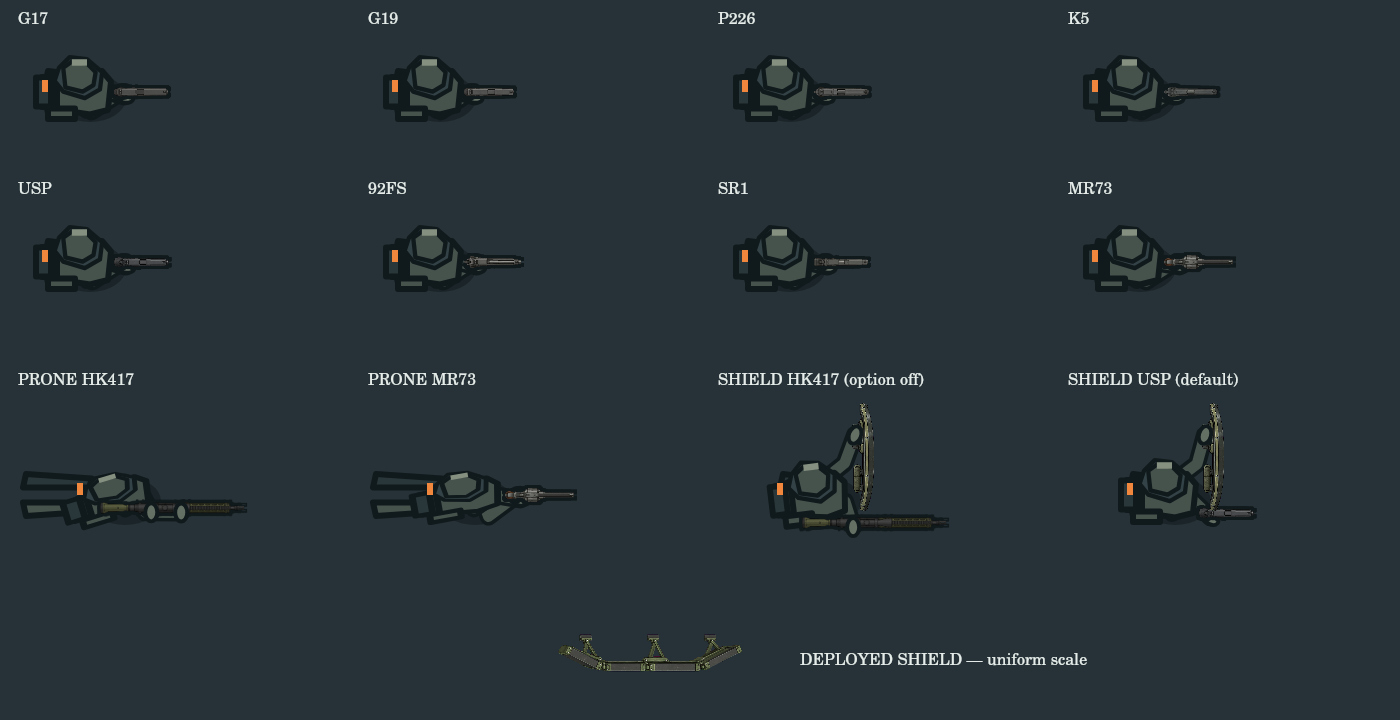
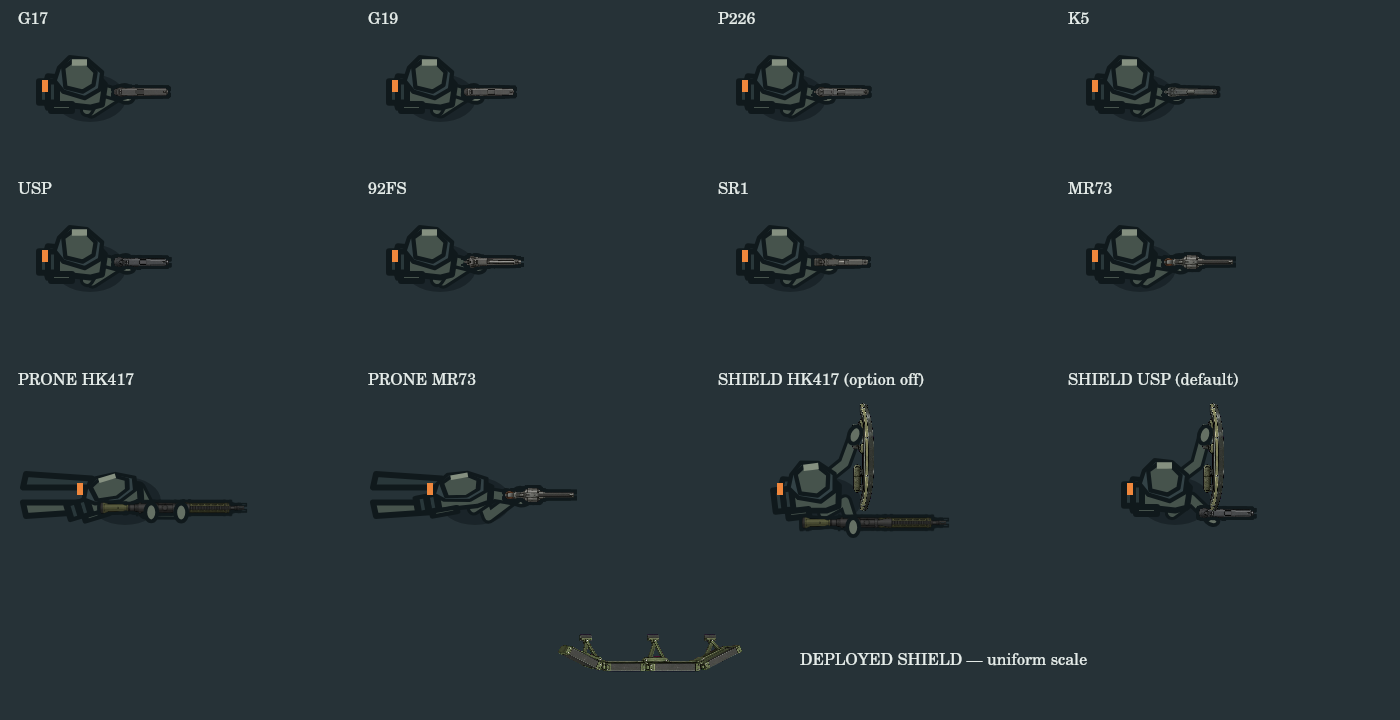
체형 피드백에 따라 몸통·군장과 팔 두께 축소

diff --git a/artifacts/draft-order-player-generator/src/components/modularOperator.ts b/artifacts/draft-order-player-generator/src/components/modularOperator.ts
@@ -185,9 +185,9 @@ export function throwArmPose(progress:number):{elbow:Point;hand:Point}{
 }
 
 function strokeArm(ctx:CanvasRenderingContext2D,pose:ArmPose,color:string):void {
-  ctx.lineCap='round';ctx.lineJoin='round';ctx.strokeStyle='#10191C';ctx.lineWidth=6;
+  ctx.lineCap='round';ctx.lineJoin='round';ctx.strokeStyle='#10191C';ctx.lineWidth=4.8;
   ctx.beginPath();ctx.moveTo(pose.shoulder.x,pose.shoulder.y);ctx.lineTo(pose.elbow.x,pose.elbow.y);ctx.lineTo(pose.hand.x,pose.hand.y);ctx.stroke();
-  ctx.strokeStyle=color;ctx.lineWidth=3.6;ctx.stroke();
+  ctx.strokeStyle=color;ctx.lineWidth=2.6;ctx.stroke();
 }
 function hand(ctx:CanvasRenderingContext2D,point:Point,angle:number):void {
   ctx.save();ctx.translate(point.x,point.y);ctx.rotate(angle);ctx.fillStyle='#657064';ctx.strokeStyle='#10191C';ctx.lineWidth=1.3;ctx.beginPath();ctx.ellipse(0,0,3,2,0,0,Math.PI*2);ctx.fill();ctx.stroke();ctx.restore();
@@ -203,7 +203,7 @@ function paintLowerBody(ctx:CanvasRenderingContext2D,pose:OperatorAssemblyPose,t
   // 회전 중에도 아래로 내려간 다리의 투영이 헬멧 뒤로 솟지 않게 몸 아래 가림 범위를 유지합니다.
   // 승인된 서기·앉기와 보행 진폭은 이 범위 안에 모두 들어갑니다. 포복은 별도입니다.
   if(!pose.prone){ctx.beginPath();ctx.rect(-17.5,-8.5,28,17);ctx.clip();}
-  ctx.rotate(relative);ctx.strokeStyle='#10191C';ctx.lineWidth=2;ctx.lineJoin='round';
+  ctx.rotate(relative);if(!pose.prone)ctx.scale(1,.78);ctx.strokeStyle='#10191C';ctx.lineWidth=2;ctx.lineJoin='round';
   // 서기/앉기에서는 다리가 골반 아래로 내려가므로 탑뷰에 짧게만 투영됩니다.
   // 포복의 뒤로 뻗은 다리를 서 있는 자세에 재사용하지 않습니다.
   for(const side of [-1,1]){const rear=pose.prone?-29:-10+3*crouch+side*step;
@@ -214,21 +214,22 @@ function paintLowerBody(ctx:CanvasRenderingContext2D,pose:OperatorAssemblyPose,t
 
 function paintTorso(ctx:CanvasRenderingContext2D,color:string):void {
   ctx.strokeStyle='#10191C';ctx.lineWidth=2;ctx.lineJoin='round';
-  polygon(ctx,[[-14,-5],[-6,-7.5],[4,-7],[7,-3.5],[6,6],[0,7.5],[-13,5.5],[-16,2]],color);
-  ctx.fillStyle='#29373A';ctx.fillRect(-16,-5,5,10);ctx.strokeRect(-16,-5,5,10);
+  // 사용자 체형 피드백: 흉곽 폭을 15→10.4로 줄이고 복부·허리를 안쪽으로 모읍니다.
+  polygon(ctx,[[-12,-3.6],[-6,-5.2],[3,-4.8],[5,-2.5],[4,4.2],[0,5.2],[-12,3.8],[-14,1.4]],color);
+  ctx.fillStyle='#29373A';ctx.fillRect(-14,-3.5,3,7);ctx.strokeRect(-14,-3.5,3,7);
 }
 
 function paintHeadAndKit(ctx:CanvasRenderingContext2D,color:string,pack:number,tool:string):void {
   ctx.strokeStyle='#10191C';ctx.lineWidth=2;ctx.lineJoin='round';
-  ctx.fillStyle='#29373A';ctx.fillRect(-18,-pack*.32,5,pack*.64);ctx.strokeRect(-18,-pack*.32,5,pack*.64);
+  ctx.fillStyle='#29373A';ctx.fillRect(-17,-pack*.24,3,pack*.48);ctx.strokeRect(-17,-pack*.24,3,pack*.48);
   ctx.save();ctx.translate(-1,-3);ctx.scale(.72,.72);
   polygon(ctx,[[-13,-7],[-8,-12],[0,-11],[7,-5],[6,3],[-1,7],[-11,4],[-15,-1]],'#334246');
   polygon(ctx,[[-11,-7],[-7,-10],[0,-9],[4,-5],[3,1],[-2,4],[-10,2]],color);
   ctx.fillStyle='#859080';ctx.fillRect(-7,-11,7,3);ctx.restore();
   if(tool==='battery'||tool==='interceptor'||tool==='charge'||tool==='plate'){
-    ctx.fillStyle=color;ctx.fillRect(-14,5.5,9,3.5);ctx.strokeRect(-14,5.5,9,3.5);
+    ctx.fillStyle=color;ctx.fillRect(-13,4,7,2.3);ctx.strokeRect(-13,4,7,2.3);
   } else if(tool==='coil'||tool==='roll'){
-    ctx.fillStyle='#859080';ctx.beginPath();ctx.arc(-10,6.5,2.2,0,Math.PI*2);ctx.fill();ctx.stroke();
+    ctx.fillStyle='#859080';ctx.beginPath();ctx.arc(-10,4.8,1.6,0,Math.PI*2);ctx.fill();ctx.stroke();
   }
 }
 

diff --git a/docs/PROJECT_STATE.md b/docs/PROJECT_STATE.md
@@ -1,3 +1,5 @@
+> **최신 체형 피드백:** 사용자의 몸통 비만감 지적에 따라 몸통 폭 약 31%, 군장 폭 25%와 팔 두께를 줄였다. 머리·총기·파지 유지. [전후 비교](../validation/operator-body-before-after.png). 새 체형 사용자 확인 전, 브라우저 미실행. 아래는 이전 기록이다.
+
 > **파지 피드백·방패 보조무장 옵션:** 권총 손을 원화 아래로, 방패 손목을 아래팔 방향으로 보완했다. REUSS 준비 옵션 `shieldRequiresSecondary`(기본 켜짐)과 실제 USP 전환·슬롯별 탄약 보존·교체 발사 차단을 연결했다. [인수인계와 검증](operator-equipment-current.md). 브라우저 미실행.
 
 > **보조무장·방패 후속 (2026-09-13):** [현재 원화·파지·검증](operator-equipment-current.md). 보조무장 8종과 휴대/설치 방패 2종을 상부 PNG로 연결했다. 의식 있는 포복 양손·총기와 방패 손잡이 파지 320자세 검사, 기존 주무기 승인 외형 24개 동일. 사용자 승인한 코드 배경 분리와 재사용 스킬 규칙을 반영했다. 브라우저 미실행. 새 아트 피드백·보조무장 전환 로직·방패 장전 전환은 별도다. 아래는 이전 기록이다.

diff --git a/docs/operator-equipment-current.md b/docs/operator-equipment-current.md
@@ -1,3 +1,5 @@
+> **체형 축소 후속:** 몸통 상하 폭 15→10.4(약 31% 축소), 등 군장 폭 25% 축소, 측면 장비·허리와 비포복 하체 투영을 축소했다. 팔 외곽선 6→4.8, 내부 3.6→2.6이며 관절 길이·접점은 유지한다. 머리·무기 등비와 성능/히트박스는 변경하지 않았다. 24개 승인 머리·총기·손 그리기 명령 동일, 2,560방향·100팔 접점·320장비 자세·타입 검사 통과. 사용자 요청으로 몸통이 변경되어 전체 픽셀 동일 검사는 보존 파츠 검사로 대체했으며 새 체형 승인으로 주장하지 않는다. [전후 검수표](../validation/operator-body-before-after.png).
+
 > **사용자 피드백 후속:** 권총 슬라이드 위 손, 방패 손목 꺾임, 보조무장 강제 옵션 누락을 수정했다. 아래 최초 제작 기록의 무기 선택 미구현 항목은 이 후속으로 대체한다.
 >
 > 권총 손목을 손잡이 아래로 옮기고 손→권총 순서로 그린다. 방패 지지팔은 탑뷰 투영 길이 8/10으로 과도한 옆꺾임을 줄이고 손목을 실제 아래팔 방향에 정렬한다. 일반 주무기 승인 외형은 유지한다.

diff --git a/docs/ART_APPROVED.md b/docs/ART_APPROVED.md
@@ -1,3 +1,5 @@
+> **후속 체형 수정 요청:** 사용자가 “캐릭터 몸이 아직도 너무 뚱뚱”하다고 피드백해 몸통·군장·팔 두께를 축소했다. 기존 승인 중 머리·총기 크기·파지·C14 자세와 외형/성능 분리 계약은 유지한다. 새 체형은 사용자 확인 전이며 기존 전체 외형 승인으로 자동 승인하지 않는다. [전후 비교](../validation/operator-body-before-after.png).
+
 # 오퍼레이터 아트 확정 · 다음 작업 인수인계
 
 승인일: 2026-09-13. 사용자가 최종 하체 수정 이미지를 확인하고 “와 좋다 … 이거 아트 확정하자”라고 명시적으로 승인했다.
